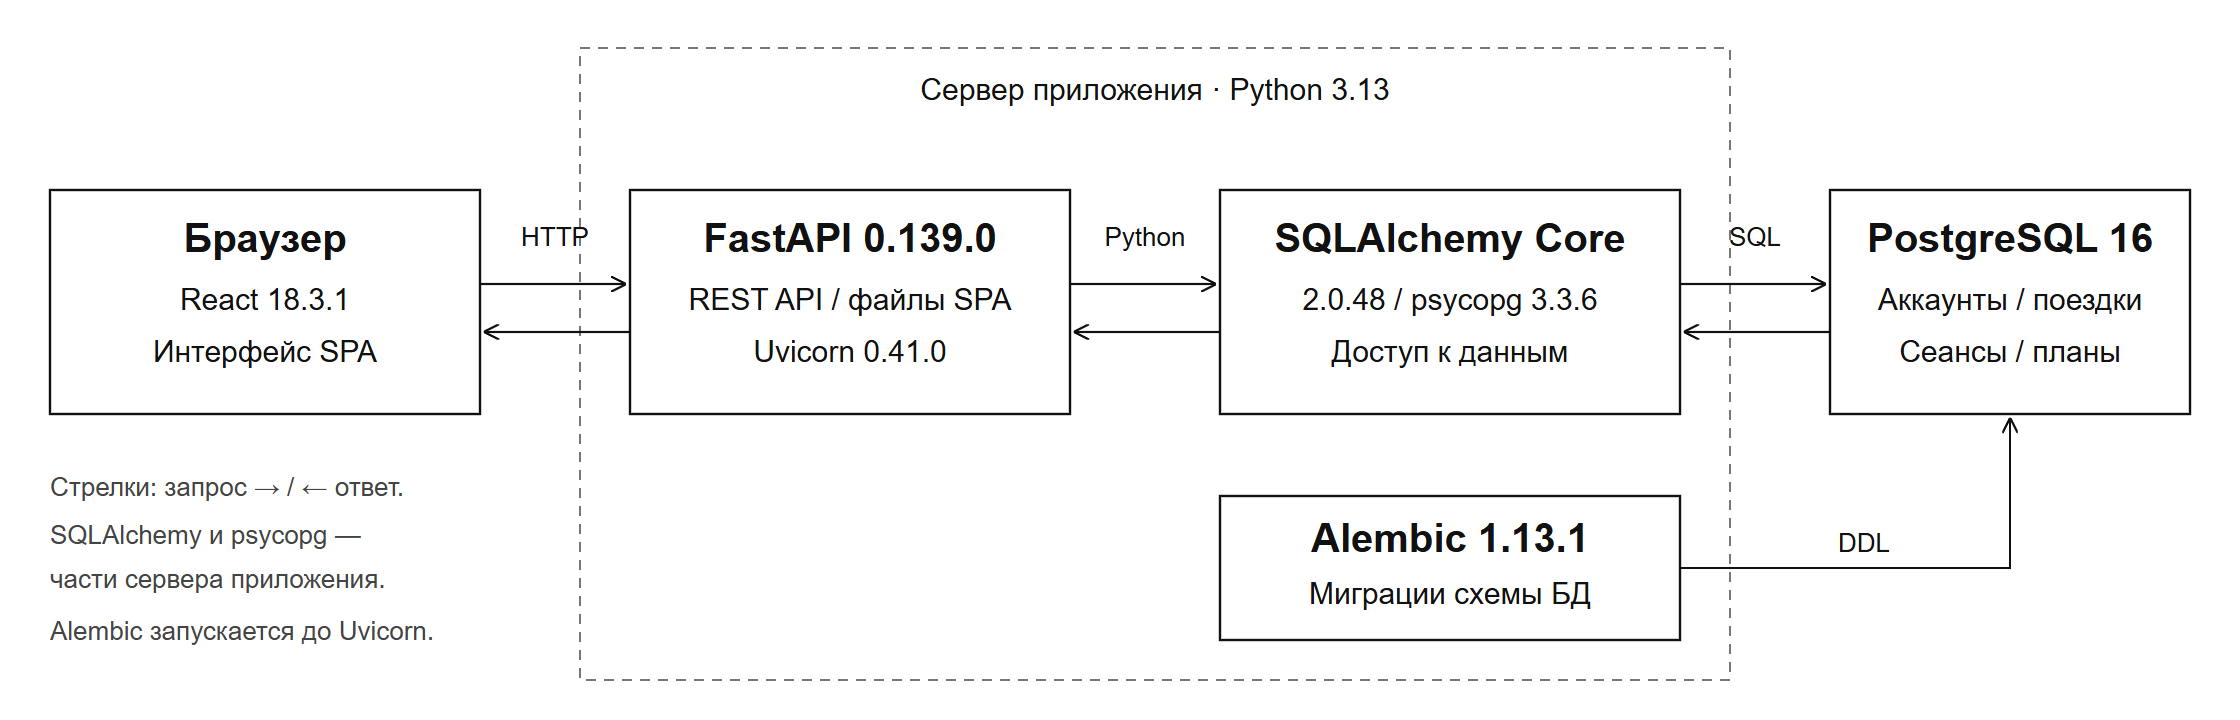
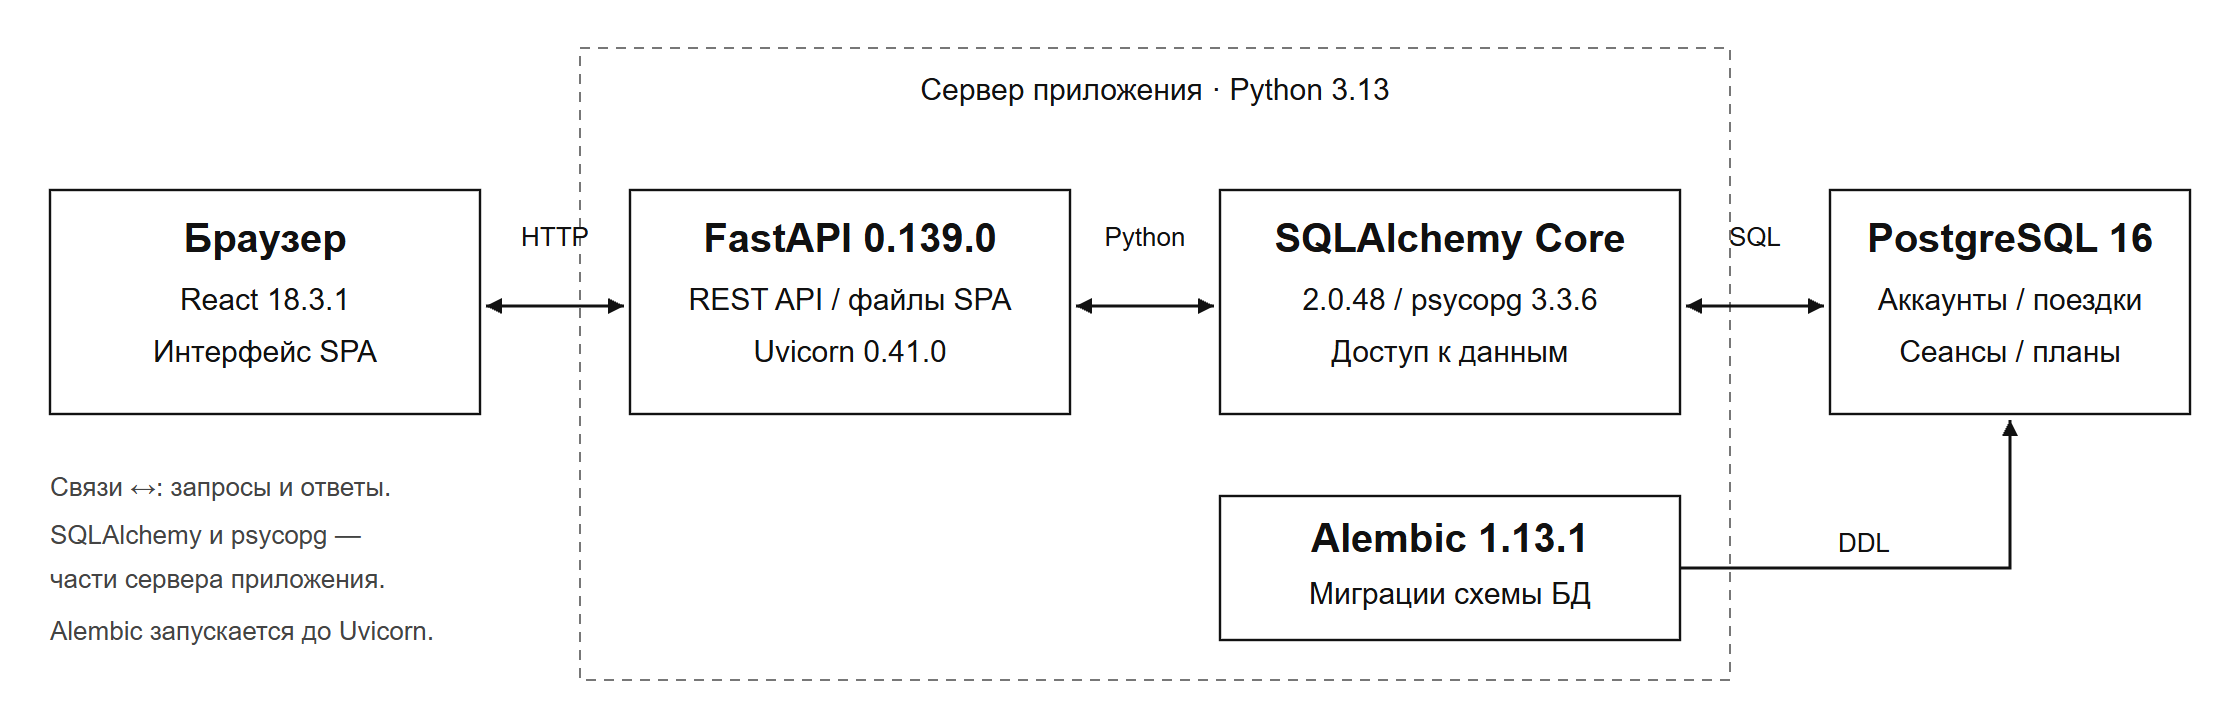
docs: update docs

diff --git a/docs/READY.md b/docs/READY.md
@@ -81,7 +81,9 @@ React 18.3.1 формирует одностраничный интерфейс,
 
 ![Архитектура и обмен данными в TravelPlanner](architecture.svg)
 
-*Рисунок 1. Запросы и ответы между компонентами; применение миграций к базе данных.*
+*Рисунок 1. Двунаправленный обмен запросами и ответами между компонентами; применение миграций к базе данных.*
+
+Связи `↔` показывают запросы и возвращаемые данные или ошибки. PostgreSQL возвращает результаты SQL-запросов через psycopg и SQLAlchemy обработчикам FastAPI; затем сервер отправляет HTTP-ответ в браузер. Стрелка `Alembic → PostgreSQL` отдельно обозначает изменение схемы при выполнении миграций.
 
 | Таблица | Основные поля и связи |
 |---|---|
